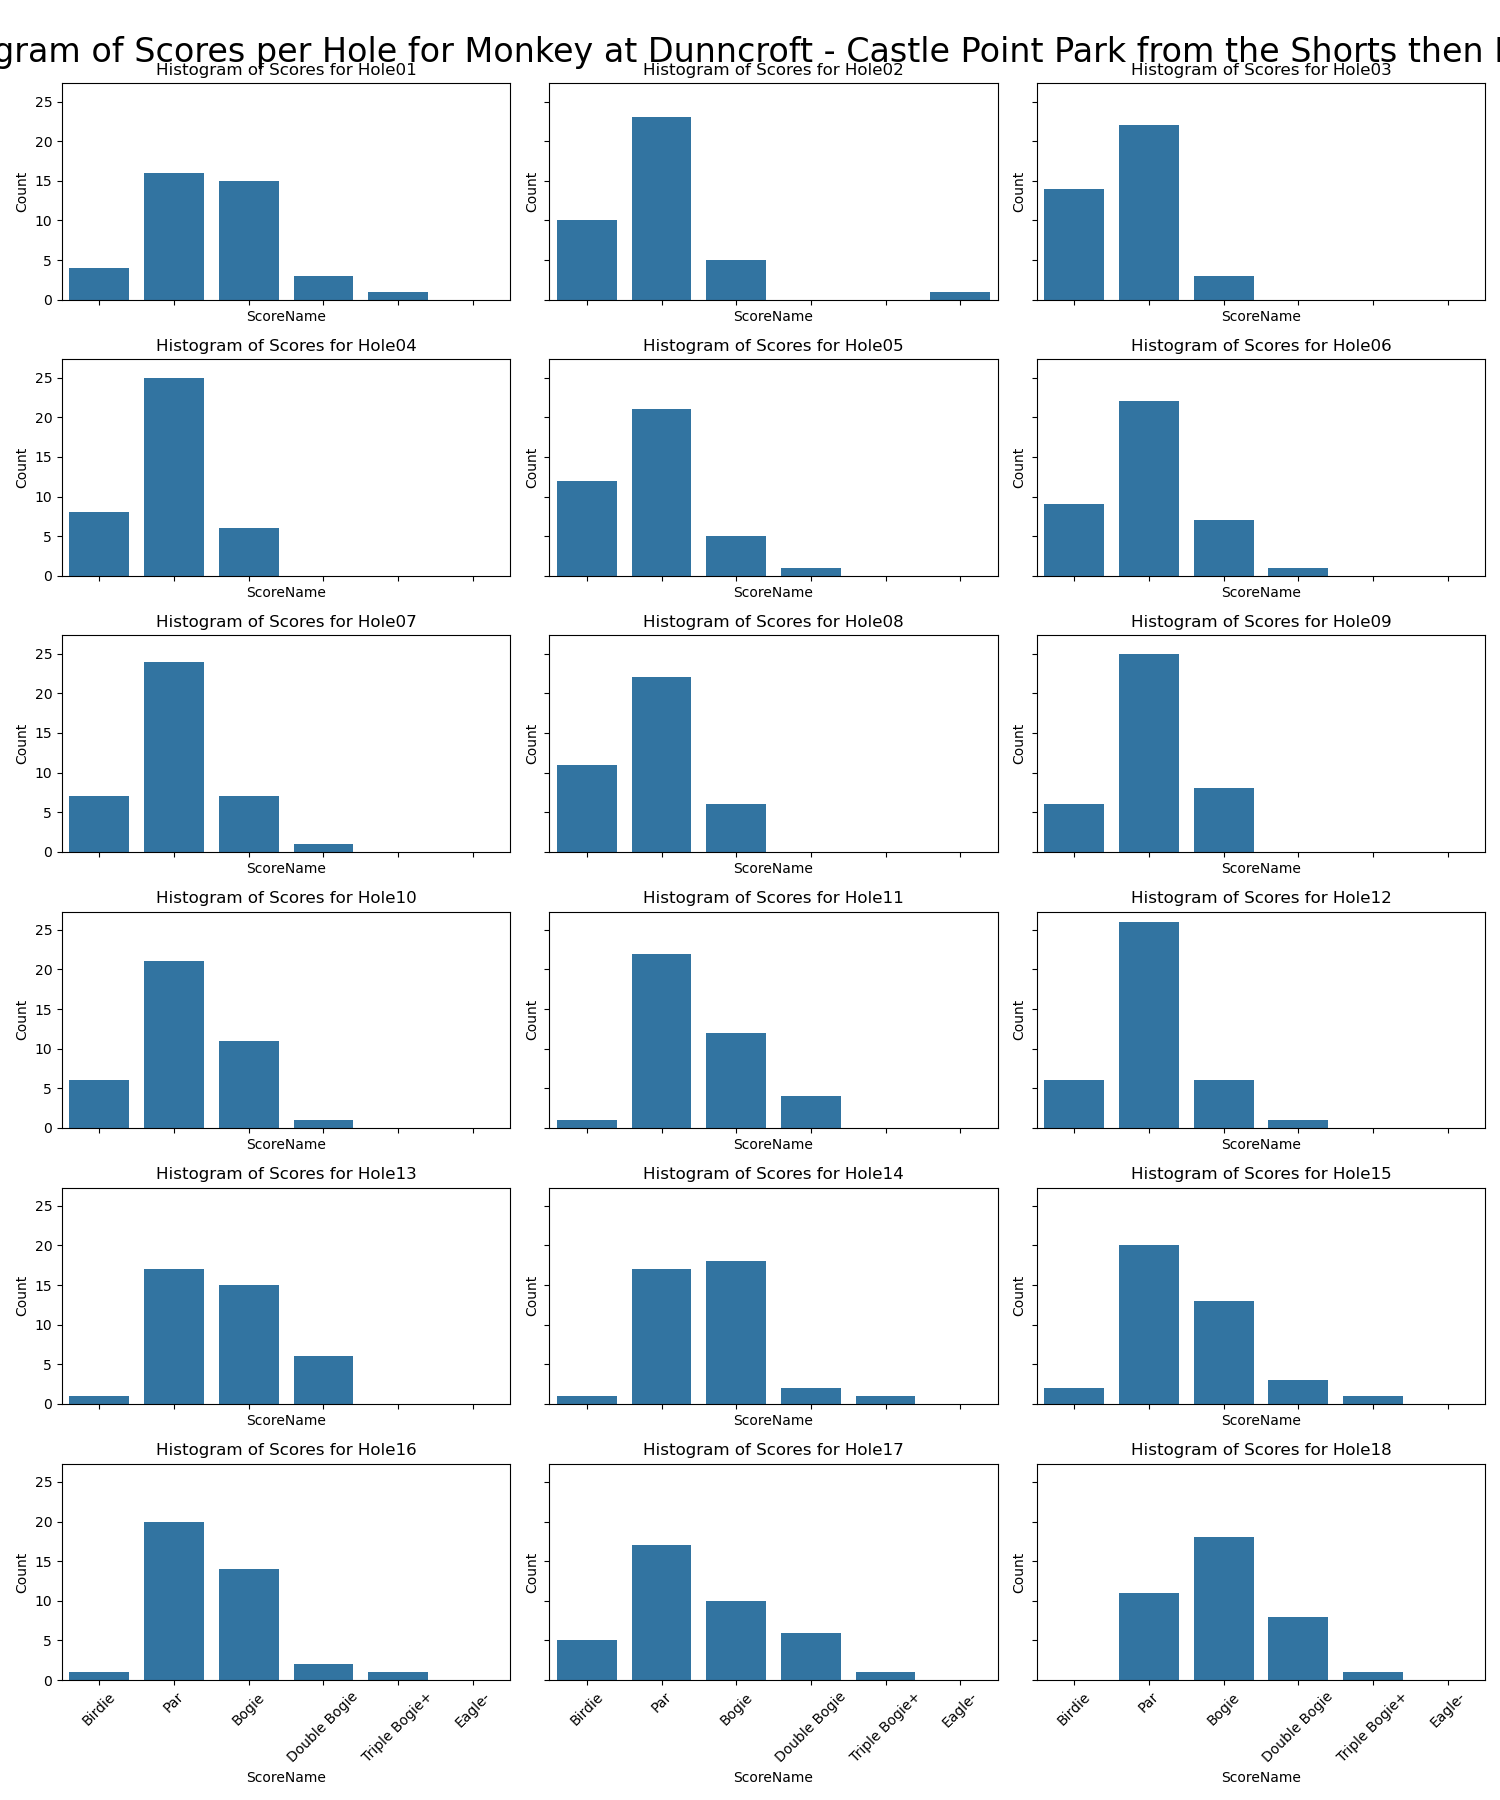
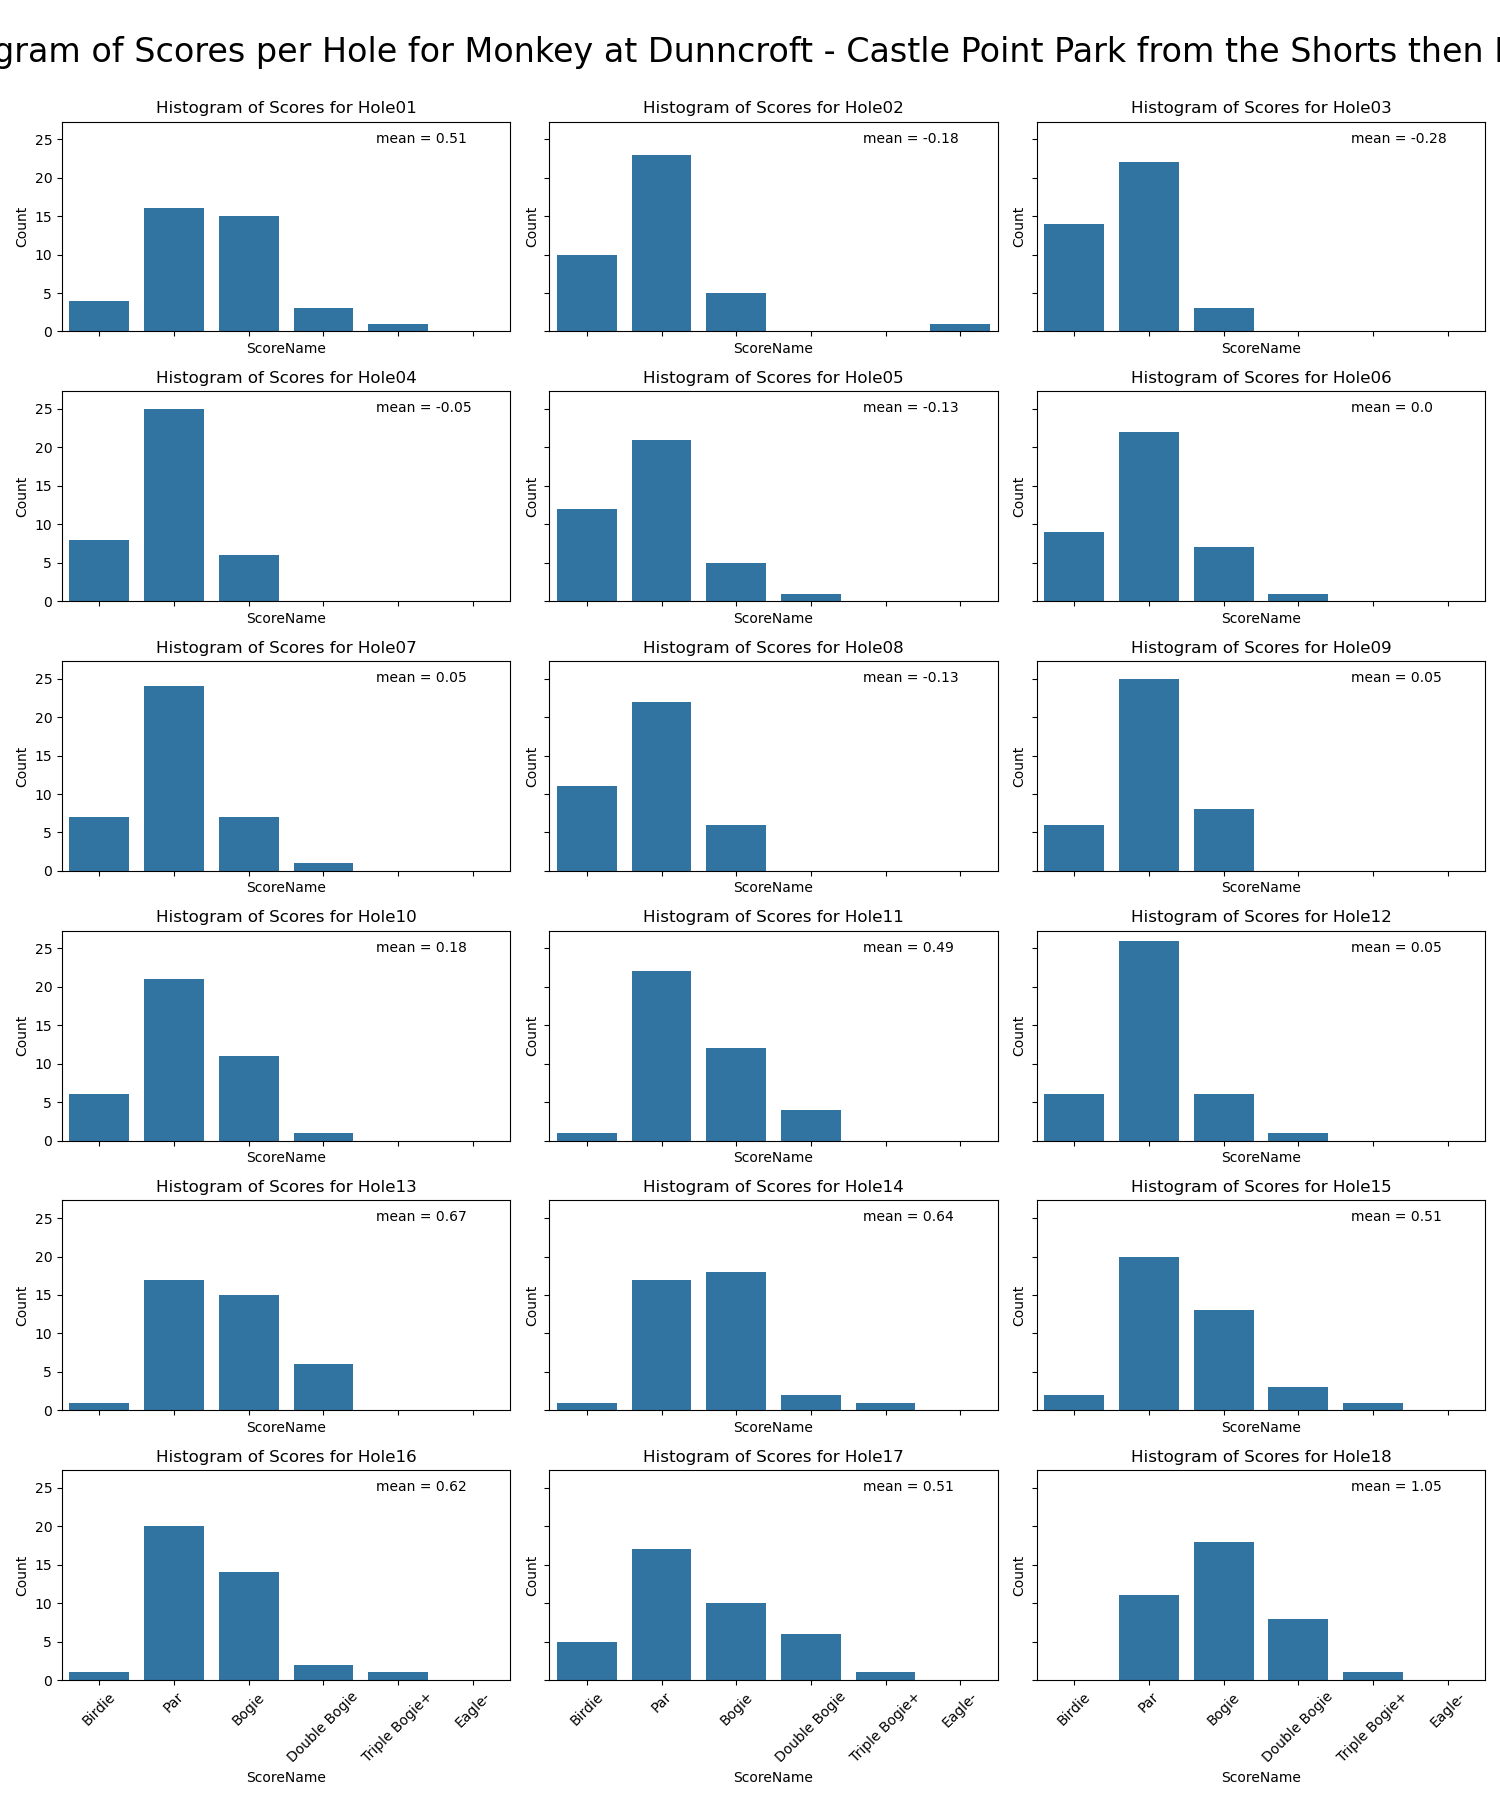
updated reports

diff --git a/reports/Monkey_Dunncroft-CastlePointPark_ShortsthenLongs.md b/reports/Monkey_Dunncroft-CastlePointPark_ShortsthenLongs.md
@@ -24,28 +24,60 @@ Includes rounds up until 2023-10-09 15:10:00
 
 ### Average Scores By Month
 
+<details open>
+
 ![avg_score](img/Monkey_Dunncroft-CastlePointPark_ShortsthenLongs/avg_score.png)
+
+</details>
 
 ### Scores With Windowed Averages
 
+<details>
+
 ![score_summary](img/Monkey_Dunncroft-CastlePointPark_ShortsthenLongs/score_summary.png)
+
+</details>
 
 ### Number of Birdies/Pars/Bogies/Etc Over Time
 
+<details>
+
 ![score_frequency](img/Monkey_Dunncroft-CastlePointPark_ShortsthenLongs/score_frequency.png)
+
+</details>
 
 ## Score Per Hole Metrics
 
-### Scores Per Hole
+### Overall Scores Per Hole
+
+<details open>
 
 ![histogram](img/Monkey_Dunncroft-CastlePointPark_ShortsthenLongs/histogram.png)
+
+</details>
+
+### YTD Scores Per Hole
+
+<details>
+
+![histogram_ytd](img/Monkey_Dunncroft-CastlePointPark_ShortsthenLongs/histogram_ytd.png)
+
+</details>
 
 ### Cumulative Score Splits Per Hole
 
 #### Overall Cumulative Score Splits Per Hole
 
+<details open>
+
 ![overall_splits](img/Monkey_Dunncroft-CastlePointPark_ShortsthenLongs/overall_splits.png)
+
+</details>
 
 #### Per Year Cumulative Score Splits Per Hole
 
+<details>
+
 ![year_score_splits](img/Monkey_Dunncroft-CastlePointPark_ShortsthenLongs/year_score_splits.png)
+
+</details>

diff --git a/reports/Monkey_BryanPark_YellowsTees.md b/reports/Monkey_BryanPark_YellowsTees.md
@@ -24,28 +24,60 @@ Includes rounds up until 2023-10-09 15:10:00
 
 ### Average Scores By Month
 
+<details open>
+
 ![avg_score](img/Monkey_BryanPark_YellowsTees/avg_score.png)
+
+</details>
 
 ### Scores With Windowed Averages
 
+<details>
+
 ![score_summary](img/Monkey_BryanPark_YellowsTees/score_summary.png)
+
+</details>
 
 ### Number of Birdies/Pars/Bogies/Etc Over Time
 
+<details>
+
 ![score_frequency](img/Monkey_BryanPark_YellowsTees/score_frequency.png)
+
+</details>
 
 ## Score Per Hole Metrics
 
-### Scores Per Hole
+### Overall Scores Per Hole
+
+<details open>
 
 ![histogram](img/Monkey_BryanPark_YellowsTees/histogram.png)
+
+</details>
+
+### YTD Scores Per Hole
+
+<details>
+
+![histogram_ytd](img/Monkey_BryanPark_YellowsTees/histogram_ytd.png)
+
+</details>
 
 ### Cumulative Score Splits Per Hole
 
 #### Overall Cumulative Score Splits Per Hole
 
+<details open>
+
 ![overall_splits](img/Monkey_BryanPark_YellowsTees/overall_splits.png)
+
+</details>
 
 #### Per Year Cumulative Score Splits Per Hole
 
+<details>
+
 ![year_score_splits](img/Monkey_BryanPark_YellowsTees/year_score_splits.png)
+
+</details>

diff --git a/reports/Monkey_BryanPark_PaverTees.md b/reports/Monkey_BryanPark_PaverTees.md
@@ -24,28 +24,60 @@ Includes rounds up until 2023-10-09 15:10:00
 
 ### Average Scores By Month
 
+<details open>
+
 ![avg_score](img/Monkey_BryanPark_PaverTees/avg_score.png)
+
+</details>
 
 ### Scores With Windowed Averages
 
+<details>
+
 ![score_summary](img/Monkey_BryanPark_PaverTees/score_summary.png)
+
+</details>
 
 ### Number of Birdies/Pars/Bogies/Etc Over Time
 
+<details>
+
 ![score_frequency](img/Monkey_BryanPark_PaverTees/score_frequency.png)
+
+</details>
 
 ## Score Per Hole Metrics
 
-### Scores Per Hole
+### Overall Scores Per Hole
+
+<details open>
 
 ![histogram](img/Monkey_BryanPark_PaverTees/histogram.png)
+
+</details>
+
+### YTD Scores Per Hole
+
+<details>
+
+![histogram_ytd](img/Monkey_BryanPark_PaverTees/histogram_ytd.png)
+
+</details>
 
 ### Cumulative Score Splits Per Hole
 
 #### Overall Cumulative Score Splits Per Hole
 
+<details open>
+
 ![overall_splits](img/Monkey_BryanPark_PaverTees/overall_splits.png)
+
+</details>
 
 #### Per Year Cumulative Score Splits Per Hole
 
+<details>
+
 ![year_score_splits](img/Monkey_BryanPark_PaverTees/year_score_splits.png)
+
+</details>
